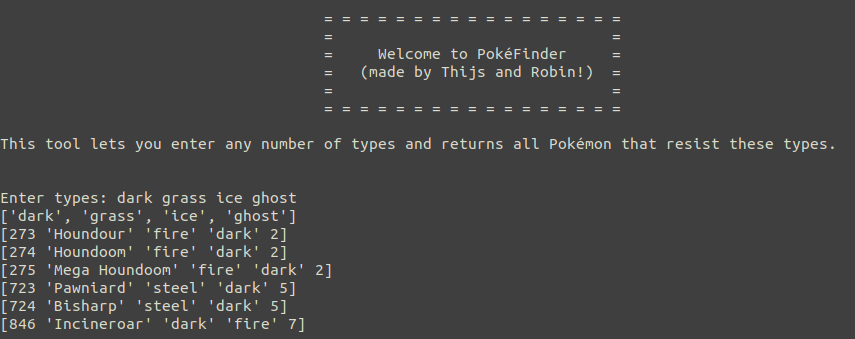
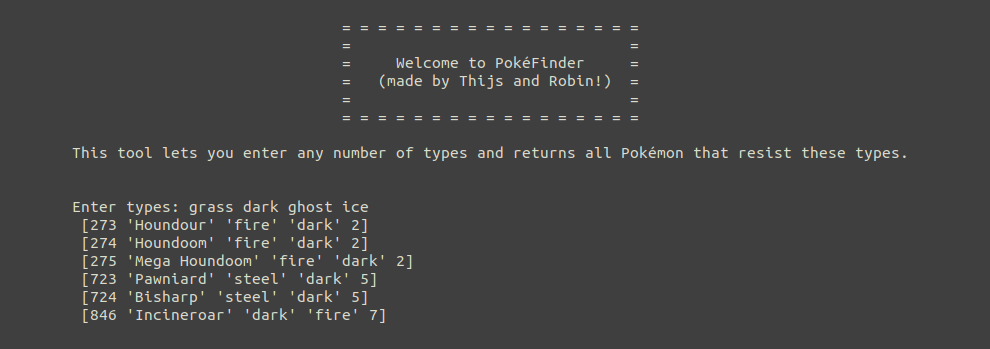
Replace example image

diff --git a/pokefinder.py b/pokefinder.py
@@ -35,12 +35,12 @@ data = pd.read_csv('pokemon.csv')
 # show welcome message
 welcome_message = """
 
-                                    = = = = = = = = = = = = = = = = = 
-                                    =                               =
-                                    =     Welcome to PokéFinder     =
-                                    =   (made by Thijs and Robin!)  =
-                                    =                               = 
-                                    = = = = = = = = = = = = = = = = =
+	                      = = = = = = = = = = = = = = = = = 
+	                      =                               =
+	                      =     Welcome to PokéFinder     =
+	                      =   (made by Thijs and Robin!)  =
+	                      =                               = 
+	                      = = = = = = = = = = = = = = = = =
 
 This tool lets you enter any number of types and returns all Pokémon that resist these types.
 
@@ -51,7 +51,6 @@ print(welcome_message)
 # get user input
 intput_types_string = input("Enter types: ")
 input_types_list    = intput_types_string.lower().split(" ")
-print(input_types_list)
 
 # choice              = input("Pokemon or types? (p/t)") 
 # generation          = input("Maximum generation (1-8)")
@@ -80,8 +79,6 @@ for pokemon in data.values:
     if qualified == True:
         print(pokemon)
         # qualified_pokemon_numbers.append(pokemon[0])
-
-
 
 
 # how it works:
